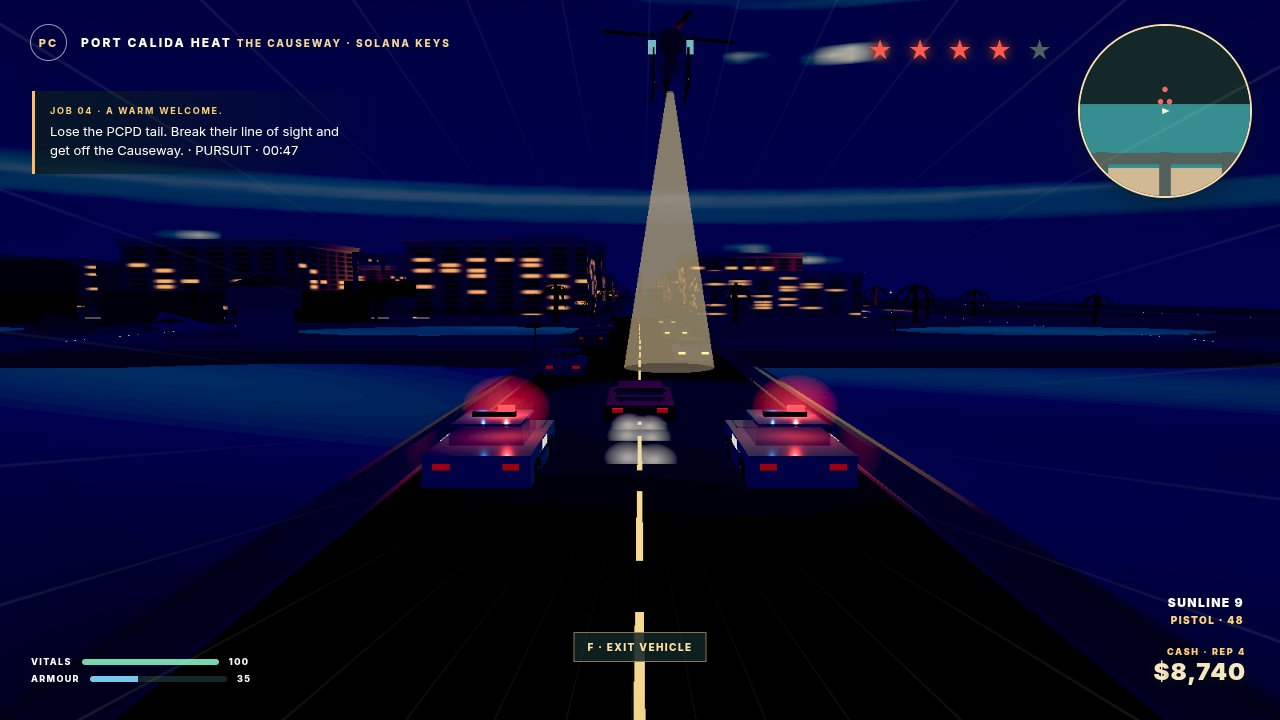
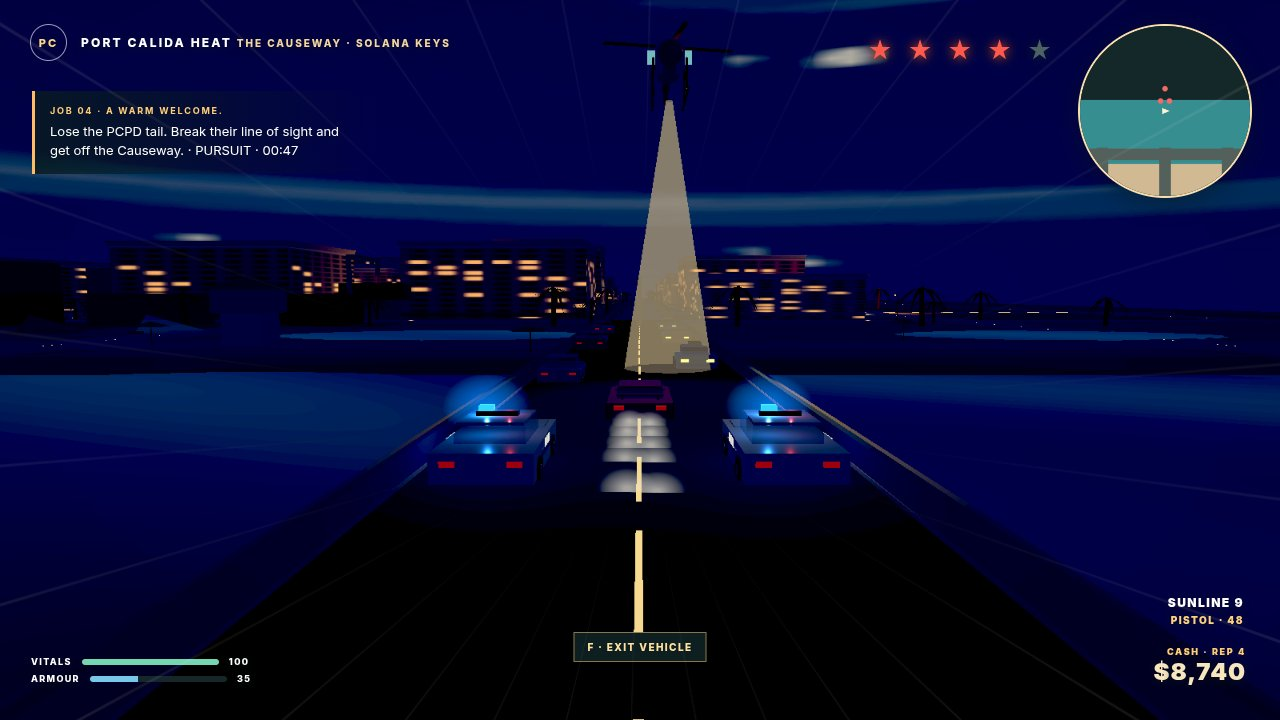
Visual pass 2: post-processing, bloom, grade, light shafts, reflective water, cinematic title/signature

diff --git a/game/index.html b/game/index.html
@@ -37,7 +37,7 @@ body{user-select:none}#world{position:fixed;inset:0;width:100%;height:100%;displ
 #reticle{position:absolute;left:50%;top:50%;width:14px;height:14px;transform:translate(-50%,-50%);border:1px solid #fff9;border-radius:50%;display:none}
 #reticle:after,#reticle:before{content:"";position:absolute;background:#fff9}#reticle:after{width:1px;height:22px;left:5px;top:-5px}#reticle:before{height:1px;width:22px;top:5px;left:-5px}#reticle.hit-confirm{border-color:#ff604f;box-shadow:0 0 12px #ff604f}#reticle.hit-confirm:after,#reticle.hit-confirm:before{background:#ff604f}
 .screen{pointer-events:auto;position:absolute;inset:0;display:grid;place-items:center;background:transparent}
-.screen[hidden]{display:none}#title-screen{place-items:center start;padding-left:6vw}#title-screen .panel{margin-left:0}.panel{width:min(460px,90vw);margin-left:7vw;padding:30px 34px 29px;background:rgba(15,15,15,.5);border:1px solid #ffffff38;border-radius:24px;box-shadow:0 20px 70px #05080c66;backdrop-filter:blur(18px)}
+.screen[hidden]{display:none}.screen:not([hidden]){animation:screen-enter .28s ease-out both}@keyframes screen-enter{from{opacity:0;transform:translateY(7px)}to{opacity:1;transform:translateY(0)}}#title-screen{place-items:center start;padding-left:6vw}#title-screen .panel{margin-left:0}.panel{width:min(460px,90vw);margin-left:7vw;padding:30px 34px 29px;background:rgba(15,15,15,.5);border:1px solid #ffffff38;border-radius:24px;box-shadow:0 20px 70px #05080c66;backdrop-filter:blur(18px)}
 .eyebrow{font-size:10px;letter-spacing:.27em;color:#f4bd6d;font-weight:900}.logo{margin:15px 0 0;font-size:clamp(35px,5vw,63px);line-height:.86;letter-spacing:-.055em;font-weight:1000}.logo em{font-style:normal;background:linear-gradient(112deg,#fff6ce 0%,#ffd268 43%,#ff816d 100%);color:transparent;background-clip:text;-webkit-background-clip:text;-webkit-text-fill-color:transparent;-webkit-text-stroke:.45px #ffeab0;text-shadow:none;filter:drop-shadow(0 0 14px #f1785b99)}.subtitle{font-size:11px;letter-spacing:.12em;color:#d2ddd5;margin:12px 0 26px}
 .menu-buttons{display:grid;gap:8px}.menu-buttons button,.menu-buttons .action{cursor:pointer;border:1px solid #ffffff36;border-radius:12px;background:#ffffff0c;color:#fff;text-align:left;padding:12px 14px;font:700 12px system-ui,sans-serif;letter-spacing:.08em;transition:background .18s ease-out,border-color .18s ease-out,transform .18s cubic-bezier(.215,.61,.355,1),box-shadow .18s ease-out}.menu-buttons button:hover:not(:disabled),.menu-buttons button:focus-visible{background:#0a84ff35;border-color:#0a84ff;transform:translateX(3px) scale(1.015);box-shadow:0 0 20px #0a84ff3d;outline:none}.menu-buttons button:active:not(:disabled){transform:translate(2px,2px) scale(.99)}.menu-buttons button.primary{background:#efac4b;color:#14251f;border-color:#ffca78}.menu-buttons button.primary:hover:not(:disabled),.menu-buttons button.primary:focus-visible{background:#ffc064;border-color:#0a84ff;box-shadow:0 0 0 2px #0a84ff66}.menu-buttons button.destructive{color:#ffb6a4;border-color:#c46f5c80}.menu-buttons button:disabled{cursor:not-allowed;background:#ffffff06;color:#75807b;border-color:#66706b55}
 .tiny{font-size:10px;line-height:1.7;color:#d2ddd5;margin-top:18px}.screen-title{position:absolute;left:28px;top:24px}

diff --git a/game/src/main.js b/game/src/main.js
@@ -190,7 +190,7 @@ const menus = createMenus({
   },
 });
 
-let screen = 'title', last = performance.now(), clock = 0;
+let screen = 'title', last = performance.now(), clock = 0, menuWindowStep = -1;
 const game = { scene, city, state, player, vehicles, parked, titleCar, foregroundPalm, traffic, people, police, gang, courier, wanted, combat, particles, hud, menus, camera: follow, minimap, mission, waterMaterials };
 Object.defineProperty(game, 'screen', { get: () => screen, set: value => { screen = value; } });
 game.enterVehicle = enterVehicle;
@@ -584,12 +584,23 @@ function draw() {
     const cinematicMenu = screen === 'title' && (!shot || shot === 'title' || shot === 'settings');
     if (cinematicMenu) {
       const drift = Math.sin(clock * .09);
-      camera.position.lerp(new THREE.Vector3(-282 + drift * 1.2, 4.1 + Math.sin(clock * .06) * .12, 21 + drift * .55), 1 - Math.exp(-dt * 2.2));
-      camera.lookAt(-276 + drift * .35, 1.35, -94);
+      camera.position.lerp(new THREE.Vector3(-292 + drift * 1.2, 4.1 + Math.sin(clock * .06) * .12, 21 + drift * .55), 1 - Math.exp(-dt * 2.2));
+      camera.lookAt(-300 + drift * .35, 1.35, -94);
       titleCar.mesh.visible = true;
-      titleCar.mesh.position.set(-276 + Math.sin(clock * .12) * 1.2, 0, -18 - Math.sin(clock * .09) * 4);
+      titleCar.mesh.position.set(-276 + Math.sin(clock * .12) * 1.2, 0, -5 - Math.sin(clock * .09) * 3);
       titleCar.yaw = Math.sin(clock * .1) * .025;
       titleCar.mesh.rotation.y = titleCar.yaw;
+      titleCar.mesh.userData.wheels?.forEach(wheel => { wheel.rotation.x = clock * .16; });
+      if (scene.userData.lightingPreset === 'golden') {
+        const step = Math.floor(clock * 1.6);
+        if (step !== menuWindowStep) {
+          scene.userData.emissiveMaterials?.forEach((material, index) => {
+            const phase = (step * .075 + index * .173) % 1;
+            material.emissiveIntensity = phase > .72 ? .62 : .1;
+          });
+          menuWindowStep = step;
+        }
+      }
       foregroundPalm.visible = true;
       menuDust.forEach(({ mote, baseY, phase }) => {
         mote.visible = true;

diff --git a/game/src/world/skyLighting.js b/game/src/world/skyLighting.js
@@ -13,8 +13,8 @@ const presets = {
   },
   night: {
     sky: ['#071326', '#101f39', '#263750', '#594258', '#111a2d'],
-    fog: 0x101a2d, fogDensity: .00078, ambient: .2, sun: .07,
-    hemiSky: 0x516b9a, hemiGround: 0x15243a, sunColor: 0x789ad0,
+    fog: 0x101a2d, fogDensity: .00078, ambient: .34, sun: .07,
+    hemiSky: 0x6179a8, hemiGround: 0x1a2c46, sunColor: 0x789ad0,
   },
 };
 
@@ -159,6 +159,7 @@ export function createSkyLighting(scene, renderer, initialPreset = 'golden') {
   }
   const tintNight = new THREE.Color(0x101e36);
   const emissiveMaterials = [];
+  scene.userData.emissiveMaterials = emissiveMaterials;
   scene.userData.registerNightMaterial = material => emissiveMaterials.push(material);
   const applyNightLighting = key => {
     const night = key === 'night';

diff --git a/game/src/rendering/postprocessing.js b/game/src/rendering/postprocessing.js
@@ -100,10 +100,12 @@ export class ShaderPass {
 
         vec2 ray = uSun - vUv;
         vec3 shafts = vec3(0.0);
-        for (int i = 0; i < 10; i++) {
-          float t = float(i + 1) / 11.0;
-          vec3 sampleColor = texture2D(tDiffuse, vUv + ray * t).rgb;
-          shafts += max(calcLuma(sampleColor) - .78, 0.0) * vec3(1.0, .66, .38);
+        if (uShaftStrength > .001) {
+          for (int i = 0; i < 10; i++) {
+            float t = float(i + 1) / 11.0;
+            vec3 sampleColor = texture2D(tDiffuse, vUv + ray * t).rgb;
+            shafts += max(calcLuma(sampleColor) - .78, 0.0) * vec3(1.0, .66, .38);
+          }
         }
         float edgeFade = smoothstep(.03, .38, length(ray));
         color += shafts * uShaftStrength * edgeFade * .0018;

diff --git a/game/src/shots.js b/game/src/shots.js
@@ -142,7 +142,7 @@ function addMarinaShopfronts(scene) {
       const valance = new THREE.Mesh(new THREE.BoxGeometry(.12, .48, .72), new THREE.MeshStandardMaterial({ color: stripe % 4 ? 0xf3d7ab : 0xe88767 }));
       valance.position.set(shop.x + side * 9.9, 5.35, shop.z + stripe); scene.add(valance);
     }
-    const neon = new THREE.PointLight(new THREE.Color(shop.color), 8, 23, 2);
+    const neon = new THREE.PointLight(new THREE.Color(shop.color), 36, 32, 2);
     neon.position.set(shop.x + side * 8.5, 8.1, shop.z); scene.add(neon);
   }
 }
